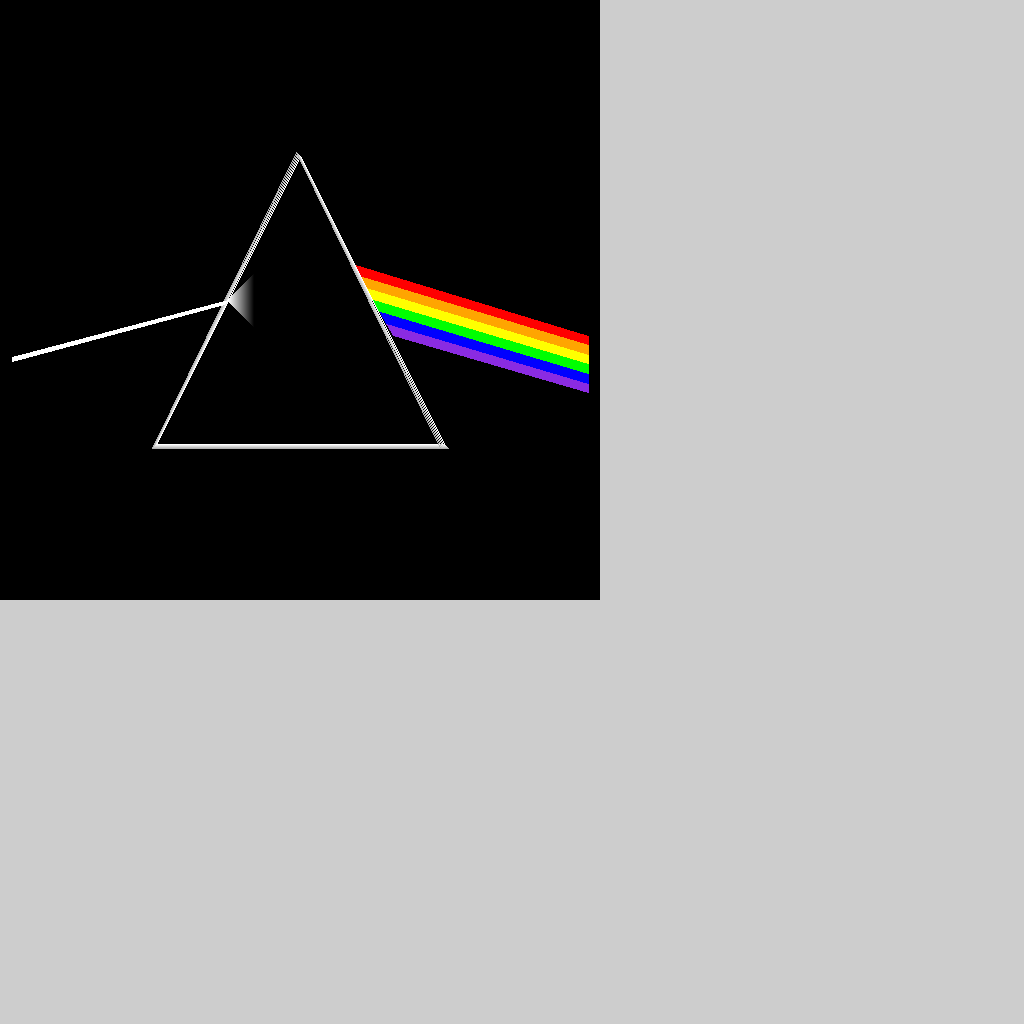
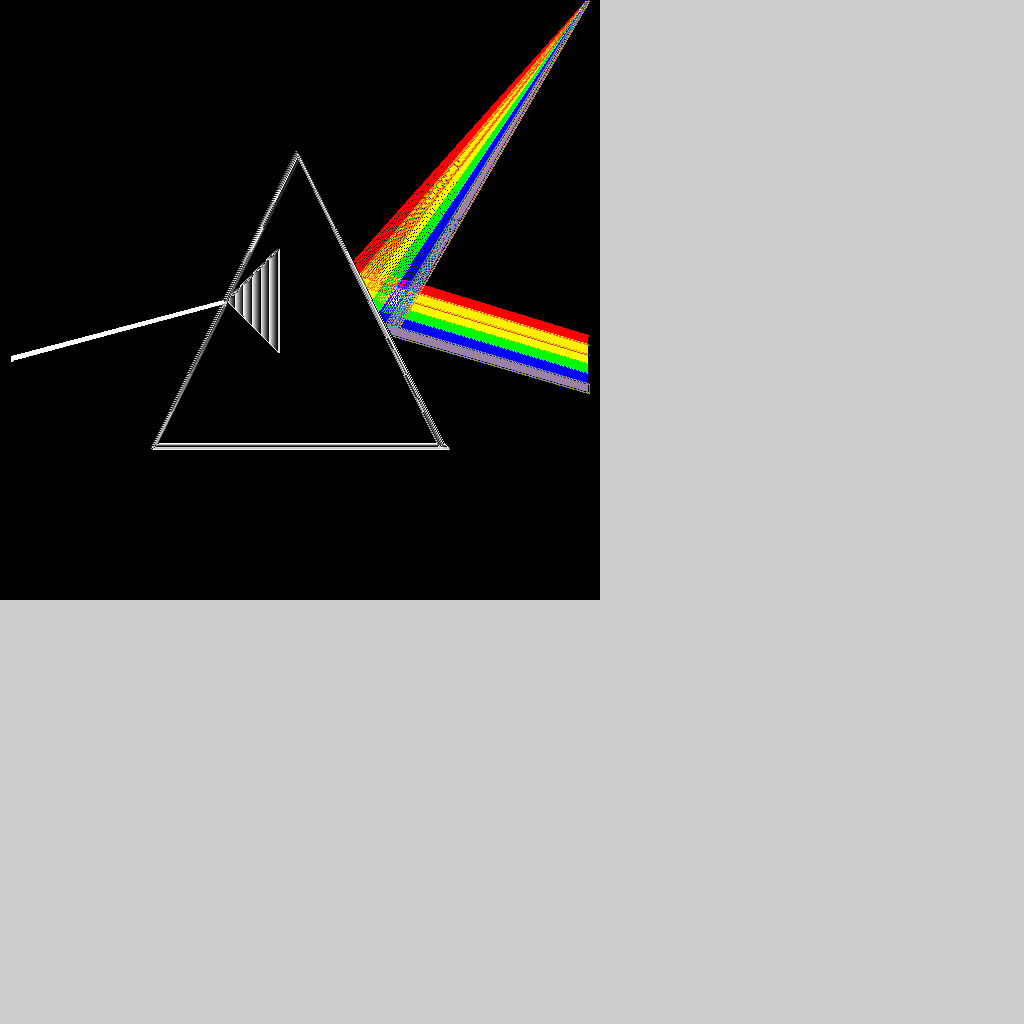
Recommended Changes
I changed some of your code that was in the update method to its own
functions.  It made things more readable.  These functions could be more
generic but then you would run into multiple function calls within loops
and I saw you were trying to avoid this.

diff --git a/src/MakingPicsApp.cpp b/src/MakingPicsApp.cpp
@@ -45,6 +45,10 @@ private:
 
 	void lines(uint8_t* pixels, int x_1, int x_2, int y_1, int y_2, Color8u c);
 	void blur(uint8_t* pixels);
+	void MakingPicsApp::drawTriangle(uint8_t* pixels); //Creates a drawTriangle method
+	void MakingPicsApp::drawRay(uint8_t* pixels); //Creates a drawRay method
+	void MakingPicsApp::drawRainbow(uint8_t* pixels); //Creates a drawRainbow method
+	void MakingPicsApp::drawBurst(uint8_t* pixels, int offSet, int burstSize); //Creates a drawBurst method
 
 	audio::TrackRef mTrack;    //Creates track reference for audio
 };
@@ -195,8 +199,92 @@ void MakingPicsApp::blur(uint8_t* pixels){
 	}
 }
 
+//This method draws triangles
+//Draw Triangle
+// Fullfills A.7
+void MakingPicsApp::drawTriangle(uint8_t* pixels){
+	Color8u c = Color8u(255, 255, 255);
+	for (int i = 0; i < 5; i++) {
+		c = Color8u(255 - 20 * i, 255 -  20* i, 255 - 20 * i);
+	lines(pixels, kAppWidth/2 - scale - i, kAppWidth/2 - i, kAppHeight/2 + scale + i, kAppHeight/2 - scale - i, c);
+	lines(pixels, kAppWidth/2 - i, kAppWidth/2 + scale - i, kAppHeight/2 - scale - i, kAppHeight/2 + scale + i, c);
+	lines(pixels, kAppWidth/2 - scale - i, kAppWidth/2 + scale + i, kAppHeight/2 + scale + i, kAppHeight/2 + scale + i, c);
+	}
+};
 
+// This method draws rays
+// Draw Ray
+// Fullfills A.3
+void MakingPicsApp::drawRay(uint8_t* pixels){
+	for (int i = 0; i < 5; i++) {
+	lines(pixels, kAppWidth/2 - 2 * scale, kAppWidth/2 - (int)(.5 * scale) - i, kAppHeight/2 + (int)(scale * .4) + i, kAppHeight/2 + i, Color8u(255, 255, 255));
+	}
+};
 
+// This method draws the rainbow
+// Draw Rainbow
+// Fullfills A.1
+void MakingPicsApp::drawRainbow(uint8_t* pixels){
+	Color8u c;
+	int row_start = 0;
+	int row_max = 12;
+	int total_lines = row_max * 6;
+for (int h = 0; h <= 5; h++) {
+	row_start = row_max * h;
+	switch (h) {
+		case 0:
+		c = Color8u(255, 0, 0);
+		break;
+		case 1:
+		c = Color8u(255, 165, 0);
+		break;
+		case 2:
+		c = Color8u(255, 255, 0);
+		break;
+		case 3:
+		c = Color8u(0, 255, 0);
+		break;
+		case 4:
+		c = Color8u(0, 0, 255);
+		break;
+		case 5:
+		c = Color8u(138, 43, 226);
+		break;
+}
+	
+	for (int i = 0; i < row_max; i++) {
+		// Creates parallelogram. Fullfills A.1
+		lines(pixels, (int)(kAppWidth/2 + (36 * tan(3.141592654/3)) + (double)((row_start + i )/1.732050808)-10), (int)(kAppWidth/2 + 2 * scale), row_start + i + (kAppHeight/2) - total_lines/2, (int) (.8 * (row_start + i) + (kAppHeight/2) + total_lines/2), c);
+		// Neat accidental effect
+		lines(pixels, (int)(kAppWidth/2 + (36 * tan(3.141592654/3)) + (double)((row_start + i )/1.732050808)-10), (int)(kAppWidth/2 + 2 * scale), row_start + i + (kAppHeight/2) - total_lines/2, (int) (.9) * (row_start + i + (kAppHeight/2) + total_lines/2), c);
+	}
+}
+};
+
+//This draws the burst, it is more generic and the offset and burstsize
+//can be changed
+// Draw Burst
+// Fullfills A.4
+void MakingPicsApp::drawBurst(uint8_t* pixels, int offSet, int burstSize){
+	int i = burstSize;
+
+	for (int x = 0; x <= burstSize; x++){
+		i--;
+		Color8u c = Color8u(255 - (10 * x), 255 - (10*x), 255 - (10 * x));
+		for (int y = i; y <= burstSize; y++){
+			offSet = (3*((kAppWidth/2 - y + burstSize) * kTextureSize + (x + kAppWidth/2 - (int)(.5 * scale))));
+			pixels[offSet] = c.r;
+			pixels[offSet + 1] = c.g;
+			pixels[offSet + 2] = c.b;
+	}
+		for (int y = i; y <= burstSize; y++){
+			offSet = (3*((y + kAppWidth/2 - burstSize) * kTextureSize + (x + kAppWidth/2 - (int)(.5 * scale))));
+			pixels[offSet] = c.r;
+			pixels[offSet + 1] = c.g;
+			pixels[offSet + 2] = c.b;
+		}
+	}
+};
 
 void MakingPicsApp::setup()
 {
@@ -233,89 +321,15 @@ void MakingPicsApp::update()
 		dataArray[3*(y * kTextureSize + x)] = 0;
 		dataArray[3*(y * kTextureSize + x) + 1] = 0;
 		dataArray[3*(y * kTextureSize + x) + 2] = 0;
-	}
-	}
-	
-	// Draw Rainbow
-	// Fullfills A.1
-	Color8u c;
-	int row_start = 0;
-	int row_max = 12;
-	int total_lines = row_max * 6;
-for (int h = 0; h <= 5; h++) {
-	row_start = row_max * h;
-	switch (h) {
-		case 0:
-		c = Color8u(255, 0, 0);
-		break;
-		case 1:
-		c = Color8u(255, 165, 0);
-		break;
-		case 2:
-		c = Color8u(255, 255, 0);
-		break;
-		case 3:
-		c = Color8u(0, 255, 0);
-		break;
-		case 4:
-		c = Color8u(0, 0, 255);
-		break;
-		case 5:
-		c = Color8u(138, 43, 226);
-		break;
-}
-	
-	for (int i = 0; i < row_max; i++) {
-		// Creates parallelogram. Fullfills A.1
-		lines(dataArray, (int)(kAppWidth/2 + (36 * tan(3.141592654/3)) + (double)((row_start + i )/1.732050808)-10), (int)(kAppWidth/2 + 2 * scale), row_start + i + (kAppHeight/2) - total_lines/2, (int) (.8 * (row_start + i) + (kAppHeight/2) + total_lines/2), c);
-		// Neat accidental effect
-		//lines(dataArray, (int)(kAppWidth/2 + (36 * tan(3.141592654/3)) + (double)((row_start + i )/1.732050808)-10), (int)(kAppWidth/2 + 2 * scale), row_start + i + (kAppHeight/2) - total_lines/2, (int) (.9) * (row_start + i + (kAppHeight/2) + total_lines/2), c);
-	}
-}
-	//Draw Triangle
-	// Fullfills A.7
-	c = Color8u(255, 255, 255);
-	for (int i = 0; i < 5; i++) {
-		c = Color8u(255 - 20 * i, 255 -  20* i, 255 - 20 * i);
-	lines(dataArray, kAppWidth/2 - scale - i, kAppWidth/2 - i, kAppHeight/2 + scale + i, kAppHeight/2 - scale - i, c);
-	lines(dataArray, kAppWidth/2 - i, kAppWidth/2 + scale - i, kAppHeight/2 - scale - i, kAppHeight/2 + scale + i, c);
-	lines(dataArray, kAppWidth/2 - scale - i, kAppWidth/2 + scale + i, kAppHeight/2 + scale + i, kAppHeight/2 + scale + i, c);
-	}
-
-	// Draw Ray
-	// Fullfills A.3
-	for (int i = 0; i < 5; i++) {
-	lines(dataArray, kAppWidth/2 - 2 * scale, kAppWidth/2 - (int)(.5 * scale) - i, kAppHeight/2 + (int)(scale * .4) + i, kAppHeight/2 + i, Color8u(255, 255, 255));
-	}
-
-	// Draw Burst
-	// Fullfills A.4
-	int offset = 0;
-	int burst_size = 25;
-	int i = burst_size;
-
-	for (int x = 0; x <= burst_size; x++){
-		i--;
-		c = Color8u(255 - (10 * x), 255 - (10*x), 255 - (10 * x));
-		for (int y = i; y <= burst_size; y++){
-			offset = (3*((kAppWidth/2 - y + burst_size) * kTextureSize + (x + kAppWidth/2 - (int)(.5 * scale))));
-			dataArray[offset] = c.r;
-			dataArray[offset + 1] = c.g;
-			dataArray[offset + 2] = c.b;
-	}
-		for (int y = i; y <= burst_size; y++){
-			offset = (3*((y + kAppWidth/2 - burst_size) * kTextureSize + (x + kAppWidth/2 - (int)(.5 * scale))));
-			dataArray[offset] = c.r;
-			dataArray[offset + 1] = c.g;
-			dataArray[offset + 2] = c.b;
 		}
-
-		
-	}
-
-	//blur(dataArray);
-
-
+	}	
+	
+	drawRainbow(dataArray);
+	drawTriangle(dataArray);
+	drawRay(dataArray);
+	drawBurst(dataArray,0,50);
+	blur(dataArray);
+	
 	if(frame_number_ == 0){
 		writeImage("darkside.png",*mySurface_);
 		//We do this here, instead of setup, because we don't want to count the writeImage time in our estimate
